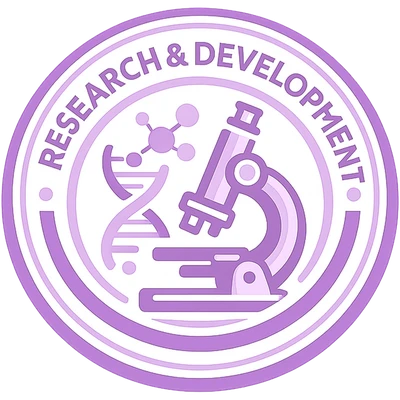
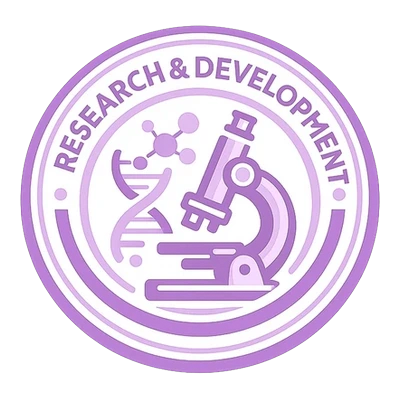
fix(pathways): every pathway badge the same size
The badge filled its column absolutely, and the column stretched to the
height of the copy beside it, so object-contain sized each badge to
min(column width, row height). Research and Development has the shortest
description and got the smallest badge (67px against 95px on desktop);
Entrepreneurship was squeezed too.

The badge is now an in-flow square the width of the column: a short row
grows to fit it and a tall row centres it. The R&D artwork also filled
396 of its 400px canvas where the other five fill 360, so with equal
boxes it read larger; it is re-padded to match.

diff --git a/src/components/engage/PathwayAccordion.tsx b/src/components/engage/PathwayAccordion.tsx
@@ -298,19 +298,22 @@ export function PathwayAccordion({ pathways }: { pathways: PathwayEntry[] }) {
                 meant to introduce; in a left column it sits alongside them and
                 the row reads as one unit.
 
-                `self-stretch` lets the panel match whatever height the copy
-                needs. The art is a round pathway badge, so object-contain
-                keeps the whole circle in view instead of cropping it. */}
+                The badge is an in-flow square the width of the column, so
+                every pathway's badge is the same size: a short description
+                makes its row grow to the badge rather than shrink it (the
+                badge used to fill the row's height, and Research and
+                Development, the shortest, came out smallest). Taller rows
+                centre it. object-contain keeps the whole circle in view. */}
             <div className="flex items-stretch">
               <div
                 className={cn(
-                  "relative shrink-0 overflow-hidden border-r border-line",
+                  "flex shrink-0 items-center overflow-hidden border-r border-line",
                   MEDIA_COL,
                 )}
               >
                 {p.thumbnail && (
                   // eslint-disable-next-line @next/next/no-img-element
-                  <img src={p.thumbnail} alt="" className="absolute inset-0 w-full h-full object-contain p-2" />
+                  <img src={p.thumbnail} alt="" className="aspect-square w-full object-contain p-2" />
                 )}
               </div>
 

diff --git a/src/lib/changelog/entries.ts b/src/lib/changelog/entries.ts
@@ -22,6 +22,14 @@ export interface ChangelogEntry {
 }
 
 export const CHANGELOG_ENTRIES: ChangelogEntry[] = [
+  // ── Learning Pathways · badges the same size
+  {
+    title: "Every pathway badge is the same size",
+    body: "On **Learning Pathways**, a pathway with a short description used to get a smaller badge — Research and Development most of all. All six badges are now the same size, whatever the length of the text beside them.",
+    kind: "fix",
+    visibleTo: ALL,
+    daysAgo: 0,
+  },
   // ── Learning Pathways · booking calendar back on the right
   {
     title: "The booking calendar is back on the right of Learning Pathways",
